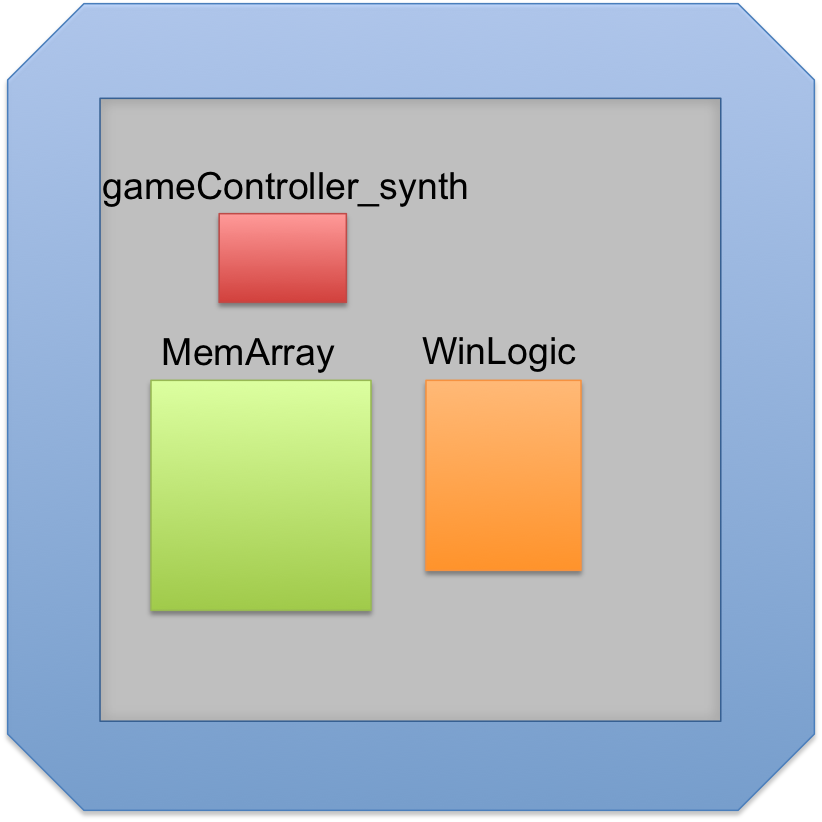
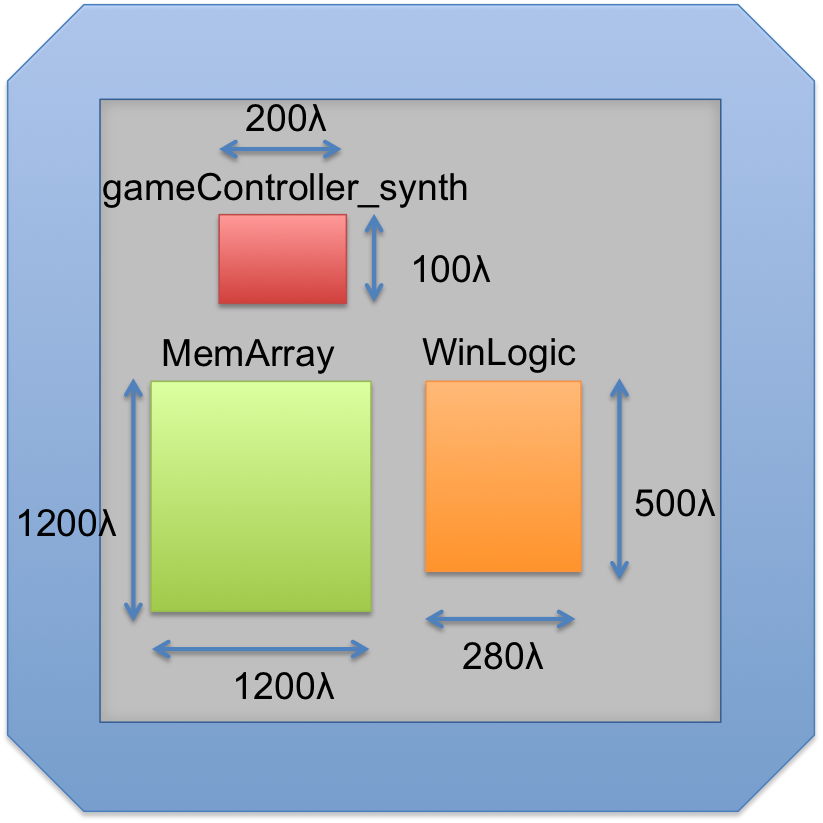
updated chipsize

diff --git a/report/main.tex b/report/main.tex
@@ -113,7 +113,7 @@ User input is a 4-bit vector (\texttt{playerInput<3:0>}) to describe the cell nu
 % • Compare the actual floorplan to the proposal and explain discrepancies\\
 % • Slice plan for datapath(s)\\
 % • Pinout diagram indicating names and pin numbers for each pin
-Figure~\ref{fig:floorplan} shows the chip floorplan for the tic-tac-toe chip including the pad frame. The top-level blocks are the \emph{game controller}, the \emph{datapath} and the \emph{memory}. A wiring channel is located between the controllers and datapath and between the datapah and memory to provide room to route control signals to the datapath. The \emph{pad frame} includes 40 I/O pads, which are wired to the pins on the chip package. As listed in table~\ref{tab:io-list}, there are 31 pads used for signal; the remainder are $V_{DD}$ and GND. Figure ~\ref{fig:pinout} shows the pinout diagram indicating names and pin numbers for each pin.
+Figure~\ref{fig:floorplan} shows the chip floorplan for the tic-tac-toe chip including the pad frame. The top-level blocks are the \emph{game controller}, the \emph{datapath} and the \emph{memory}. A wiring channel is located between the controllers and datapath and between the datapah and memory to provide room to route control signals to the datapath. The \emph{pad frame} includes 40 I/O pads, which are wired to the pins on the chip package. As listed in table~\ref{tab:io-list}, there are 31 pads used for signal; the remainder are $V_{DD}$ and GND. Figure~\ref{fig:floorplan} shows the dimensions of each block on the chip and figure ~\ref{fig:pinout} shows the pinout diagram indicating names and pin numbers for each pin.
 
 \begin{figure}
 \centering
